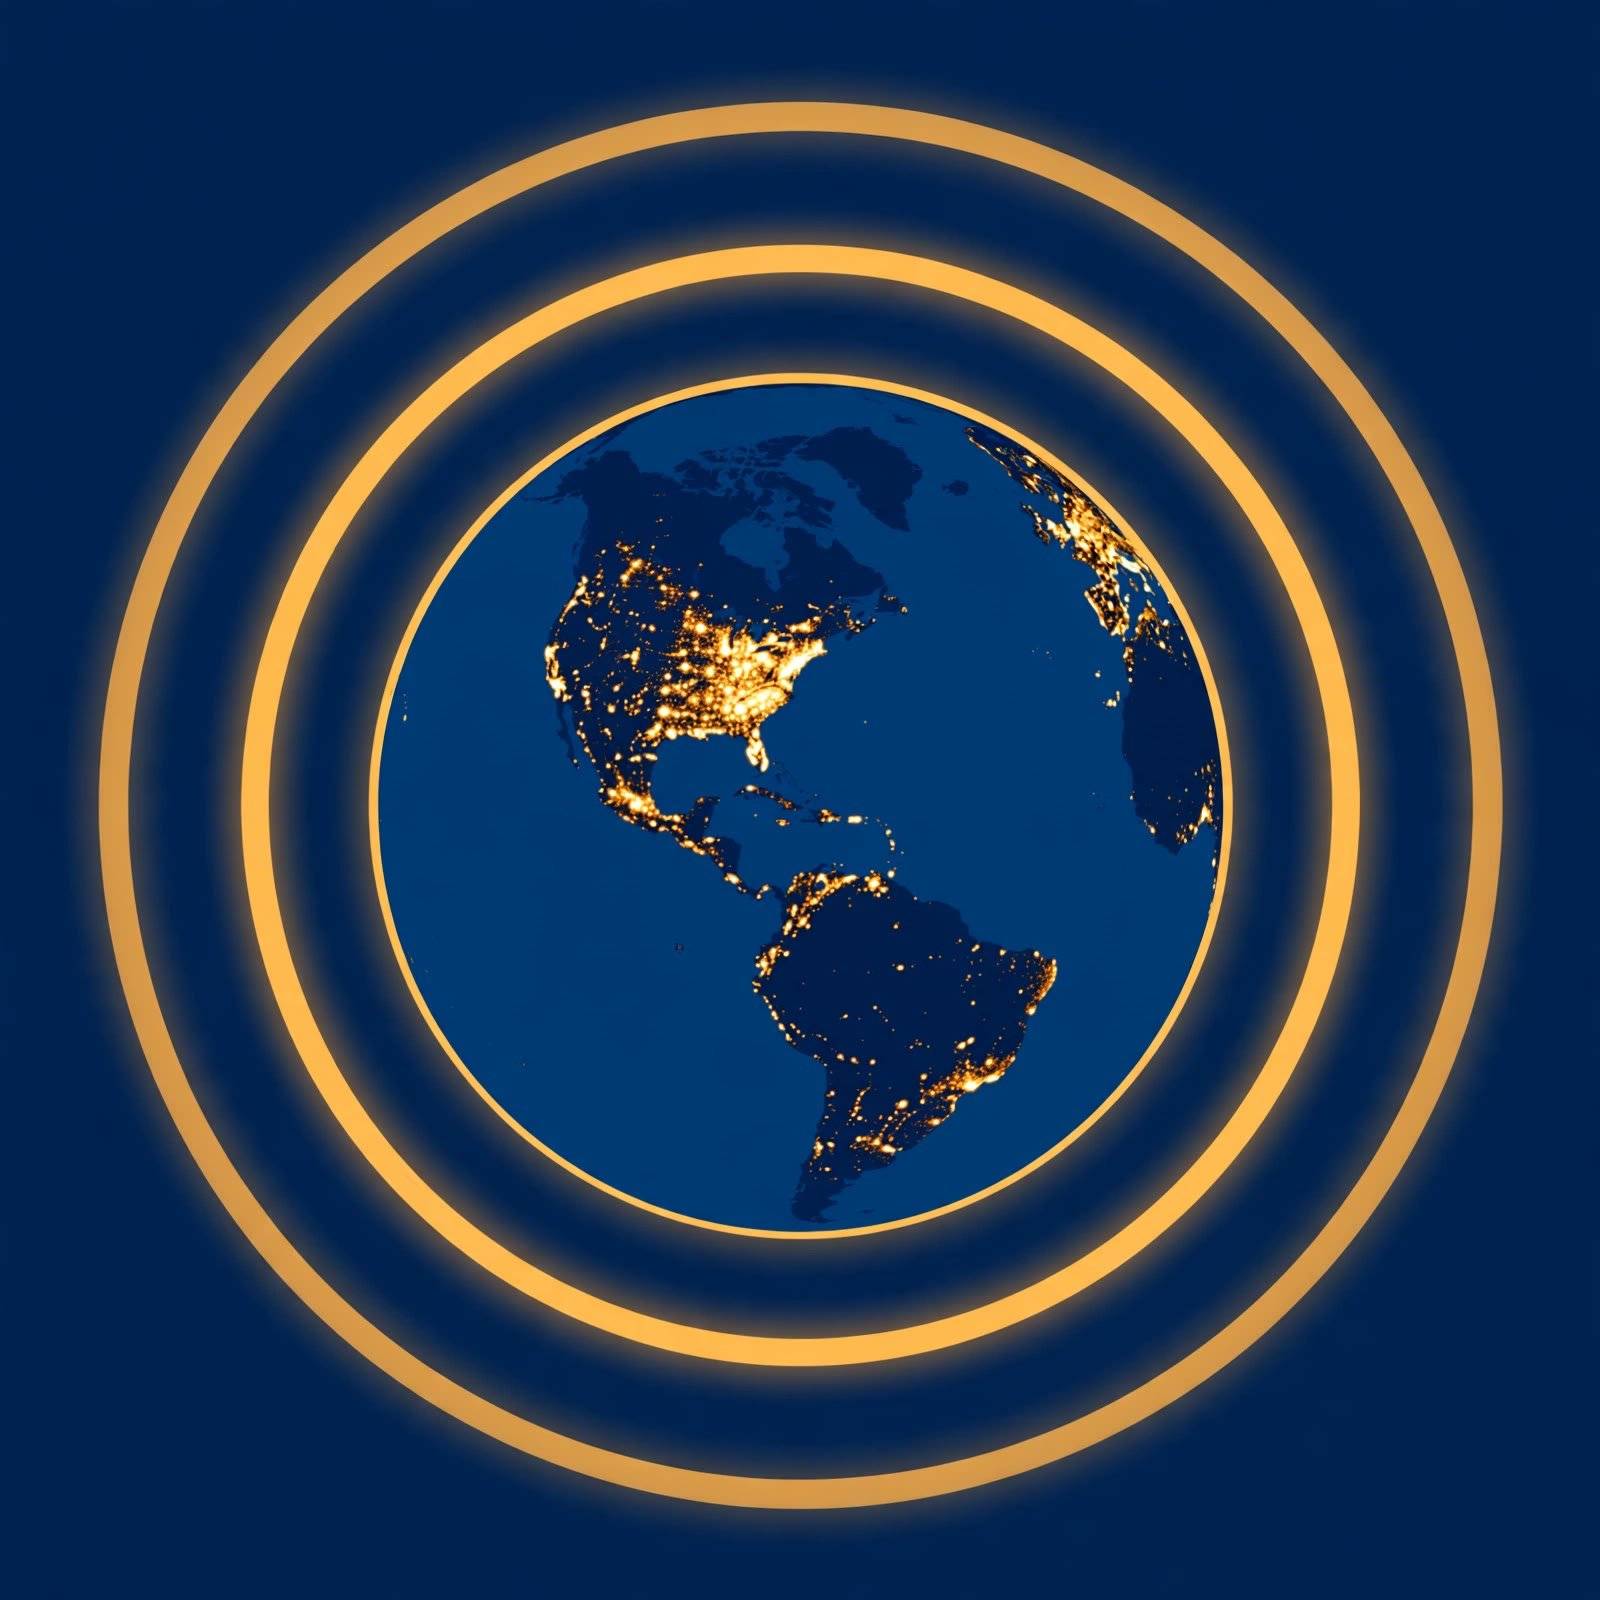
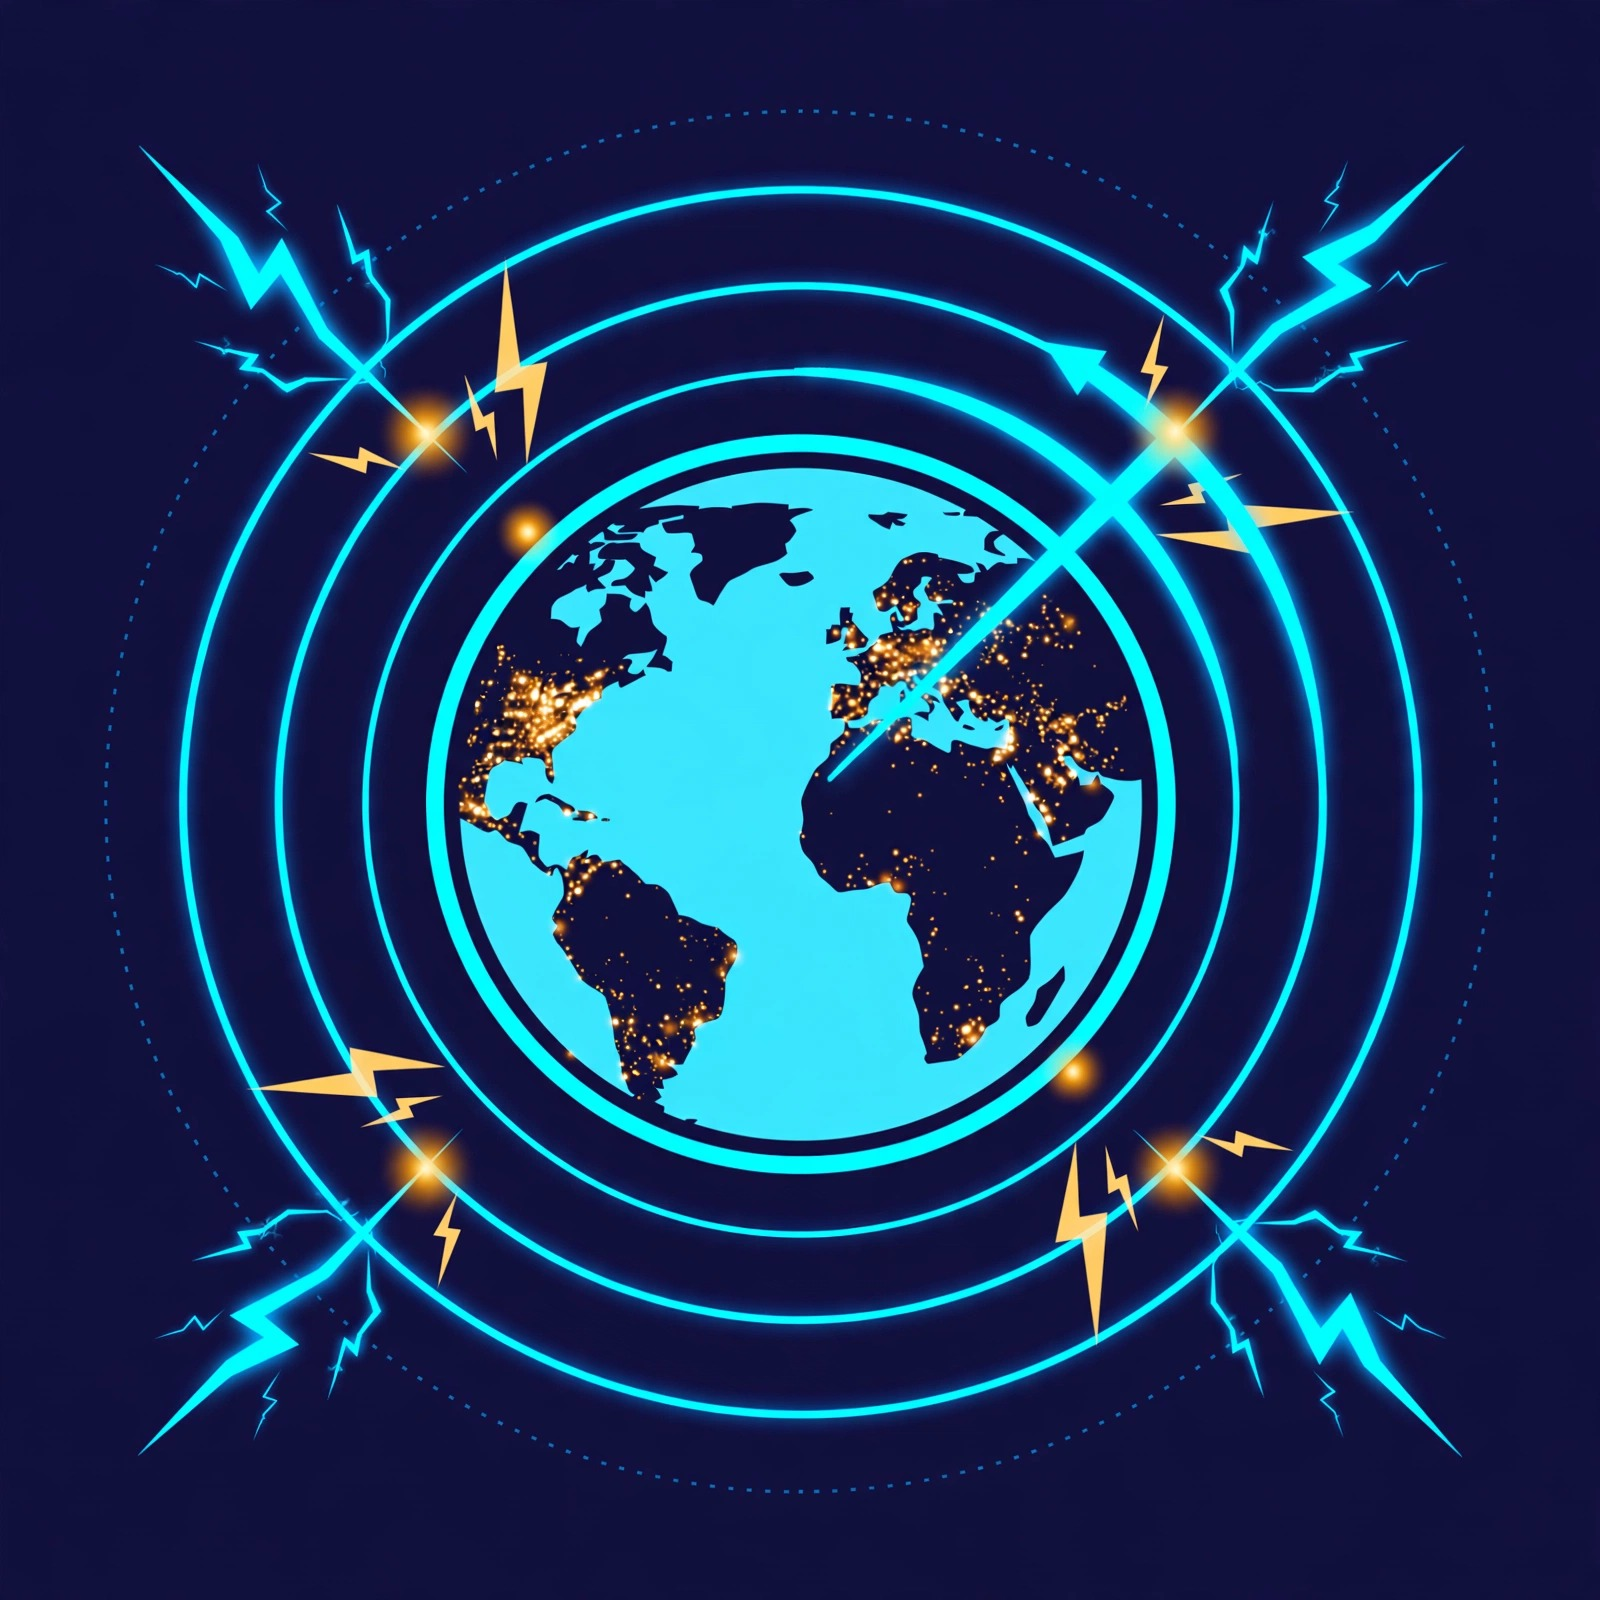
Osint613 briefings: feed update (8 changed)

diff --git a/osint613-briefings/add_episode.py b/osint613-briefings/add_episode.py
@@ -24,9 +24,10 @@ from zoneinfo import ZoneInfo
 
 # ---------------- show config ----------------
 SHOW_TITLE = "Osint613 Daily Briefings"
-SHOW_DESC = ("Every @Osint613 post, twice a day, narrated like a human news-podcast "
-             "host with photos and videos described. Morning briefings cover 9 PM–7 AM "
-             "Eastern; evening briefings cover 7 AM–9 PM Eastern.")
+SHOW_DESC = ("Breaking news, read to you twice a day. Every @Osint613 post — "
+             "every photo and video described — narrated like a human news anchor. "
+             "Morning briefings cover the overnight hours, 9 PM–7 AM Eastern; "
+             "evening briefings cover the day, 7 AM–9 PM Eastern. Never miss a story.")
 HANDLE = "@Osint613"
 RUNS_DIR = os.path.expanduser("~/workspace/osint613-voice-note/runs")
 FEED_DIR = os.path.expanduser("~/workspace/podcast-feeds/osint613-briefings")
